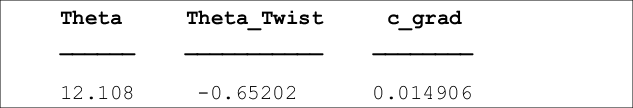
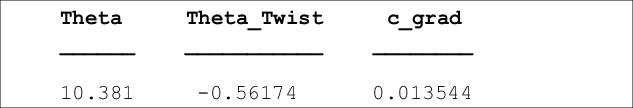
Fix core bending issues.

Changed region(s): [[0.3602, 0.7778, 0.4803, 0.9167], [0.09, 0.7778, 0.2101, 0.9167], [0.6603, 0.7778, 0.7504, 0.9444]]

diff --git a/WTSingleVelocity.m b/WTSingleVelocity.m
@@ -6,7 +6,7 @@ function [Mtot_t, Mtot_n,S2,Power,def_max_y,def_max_z] = WTSingleVelocity(V0, Th
 
 N=19; %set radius node count
 radius_delta=(TipRadius-RootRadius)/(N); %Increment in radius
-S2=zeros(N,11); %Creat empty matrix to hold values
+S2=zeros(N,13); %Creat empty matrix to hold values
 
 c_mean_local=globaldata.c_mean;
 logid_local=globaldata.logid;
@@ -27,40 +27,40 @@ for j=1:N
     %Calculate each moment
     Mt=(0.5*1.225*local_chord*Ct_s1*Vrel^2)*radius_delta*local_radius;
     Mn=(0.5*1.225*local_chord*Cn_s1*Vrel^2)*radius_delta*local_radius;
-    S2(j,:)=[local_radius, a_s1, adash_s1, phi_s1, Cn_s1, Ct_s1, tol_s1, i_s1,Vrel,Mt,Mn];
-    %S2(j,9:11)=[Vrel,Mt,Mn];
-    %{
-    M1=Mt*cos(local_theta)-Mn*sin(local_theta);
-    M2=Mt*sin(local_theta)+Mn*cos(local_theta);
-    k1=M1/EIcalc(local_chord);
-    k2=M2/EI2calc(local_chord);
-    ky(1,j)=k1*cos(local_theta)+k2*sin(local_theta);
-    kz(1,j)=-k1*sin(local_theta)+k2*cos(local_theta);
-    if j>1
-    % i.e. at N=1 leave as zero
-    % Calculate bending angles
-    bending_theta_y(1,j)=bending_theta_y(1,j-1)...
-            +0.5*(ky(1,j-1)+ky(1,j))*radius_delta;
-    bending_theta_z(1,j)=bending_theta_z(1,j-1)...
-            +0.5*(kz(1,j-1)+kz(1,j))*radius_delta;
-        
-    % Calculate deflections.
-    uy(1,j)=uy(1,j-1)+(bending_theta_z(1,j-1)*radius_delta)+(((kz(1,j)/6)+(kz(1,j-1)/3))*radius_delta^2);
-    uz(1,j)=uz(1,j-1)+(bending_theta_y(1,j-1)*radius_delta)+(((ky(1,j)/6)+(ky(1,j-1)/3))*radius_delta^2);
-        
-    end
-    %}
+    pt=Mt/(radius_delta*local_radius);
+    pn=Mn/(radius_delta*local_radius);
+    S2(j,:)=[local_radius, a_s1, adash_s1, phi_s1, Cn_s1, Ct_s1, tol_s1, i_s1,Vrel,Mt,Mn,pt,pn];
+
 end
 
+
+Ty=zeros(1,N+1);
+Tz=zeros(1,N+1);
 My=zeros(1,N+1);
 Mz=zeros(1,N+1);
-for p=N:-1:2
-    % Interp Momentum at each node
-    My(1,p)=My(1,p+1)+(1/2*(S2(p,10)+S2(p-1,10)));
-    Mz(1,p)=Mz(1,p+1)+(1/2*(S2(p,11)+S2(p-1,11)));
+for p=N:-1:3
+    % Interp Forces at each node
+    force_y_p=(1/2*(S2(p,12)+S2(p-1,12)));
+    force_y_p1=(1/2*(S2(p-1,12)+S2(p-2,12)));
+    force_z_p=(1/2*(S2(p,13)+S2(p-1,13)));
+    force_z_p1=(1/2*(S2(p-1,13)+S2(p-2,13)));
+    Ty(p)=Ty(p+1)+(S2(p,12)*radius_delta);
+    Tz(p)=Tz(p+1)+(S2(p,13)*radius_delta);
+    My(1,p)=My(1,p+1)-(radius_delta*Tz(p+1))-((force_z_p1/6)+(force_z_p/3))*radius_delta^2;
+    Mz(1,p)=Mz(1,p+1)+(radius_delta*Ty(p+1))+((force_y_p1/6)+(force_y_p/3))*radius_delta^2;
 end
-    My(1,1)=My(1,2)+S2(1,10);
-    Mz(1,1)=Mz(1,2)+S2(1,11);
+
+% For nodes 1 and two use central approximations.
+for p=2:-1:1
+    force_y_p=S2(p,12);
+    force_y_p1=S2(max(p-1,1),12);
+    force_z_p=S2(p,13);
+    force_z_p1=S2(max(p-1,1),13);
+    Ty(p)=Ty(p+1)+(S2(p,12)*radius_delta);
+    Tz(p)=Tz(p+1)+(S2(p,13)*radius_delta);
+    My(1,p)=My(1,p+1)-(radius_delta*Tz(p+1))-((force_z_p1/6)+(force_z_p/3))*radius_delta^2;
+    Mz(1,p)=Mz(1,p+1)+(radius_delta*Ty(p+1))+((force_y_p1/6)+(force_y_p/3))*radius_delta^2;
+end
 
 % M1s and M2s
 node_thetas=linspace(Theta0,Theta0+((TipRadius-RootRadius)*ThetaTwist),N+1);

diff --git a/main.m b/main.m
@@ -56,7 +56,7 @@ opts.TolX = 0.0001; %Tolerance on the variation in the parameters
 opts.TolFun = 100; %Tolerance on the error
 opts.OutputFcn = @(x,optimValues,state)optMonitor(x,optimValues,state,globaldata); %Tolerance on the error
 opts.MaxIter = globaldata.maxiters-1; %Max number of iterations
-[x, diff, exitflag] = fminsearchbnd(@(x)aepCost(x,globaldata), [deg2rad(4) deg2rad(-0.5) 0.05], [deg2rad(2) deg2rad(-2) -0.1], [deg2rad(20) deg2rad(-0.1) 0.099], opts);
+[x, diff, exitflag] = fminsearchbnd(@(x)aepCost(x,globaldata), [deg2rad(6) deg2rad(-0.5) 0], [deg2rad(2) deg2rad(-2) -0.1], [deg2rad(20) deg2rad(-0.1) 0.099], opts);
 xdeg=[rad2deg(x(1)),rad2deg(x(2)),x(3)];
 if exitflag==1
     disp('Optimiser SOLVED.');

diff --git a/WTVelocityRange.m b/WTVelocityRange.m
@@ -43,9 +43,9 @@ for vn=1:N
     if(max(momentHold)>globaldata.M_rootmax)
         local_power=0;
         disp(['Moment Limit Exceeded: ' num2str(max(momentHold))]);
-    elseif(max(def_yHold)>3 || max(def_zHold)>3)
+    elseif(abs(min(def_zHold))>3)
         local_power=0;
-        disp(['Deflections Exceeded - y: ' num2str(max(def_yHold)) ' >< z: ' num2str(max(def_zHold))]);
+        disp(['Deflections Exceeded - z: ' num2str(abs(min(def_zHold)))]);
     else
     local_power=0.5*(powerHold(1,vn)+powerHold(1,vn+1));
     end
